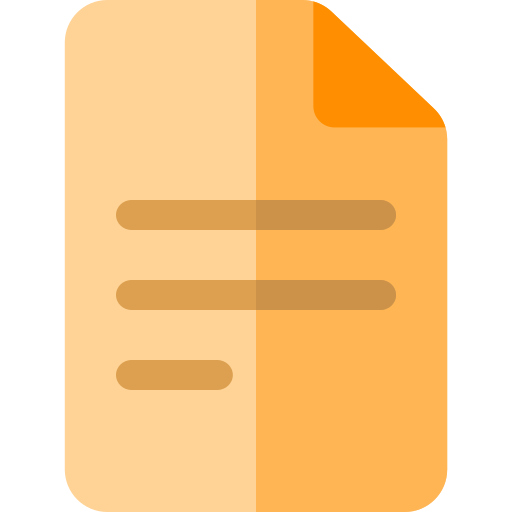
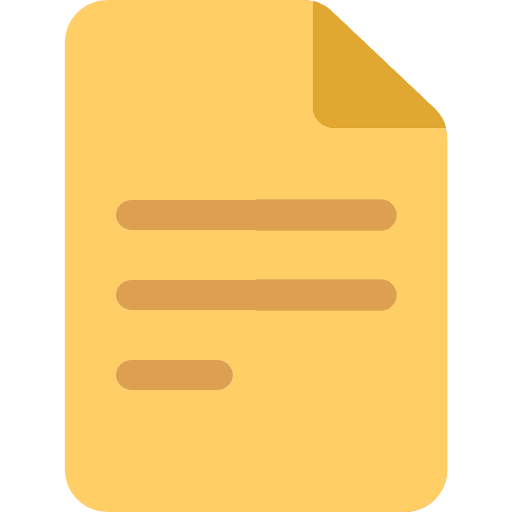
Fixed reflection cache

diff --git a/Engine/ReflectionGenerator/ReflectionCache.cpp b/Engine/ReflectionGenerator/ReflectionCache.cpp
@@ -56,6 +56,12 @@ void ReflectionCache::CacheFile(const std::string& inFile, const std::list<Refle
     myCache[inFile] = { lastWriteTime, inClasses };
 }
 
+void ReflectionCache::UpdateWriteTimeForFile(const std::string& inFile)
+{
+    std::filesystem::file_time_type lastWriteTime = std::filesystem::last_write_time(inFile);
+    myCache[inFile].myLastWriteTime = lastWriteTime;
+}
+
 bool ReflectionCache::IsCacheValidForFile(const std::string& inFile) const
 {
     const std::string normalizedFilePath = PathUtils::NormalizePath(inFile);
@@ -87,6 +93,8 @@ void ReflectionCache::UpdateCacheFromUnityFile(const UnityFileBuilder& inUnityFi
         
         if (myCache.find(normalizedPath) == myCache.end())
             CacheFile(normalizedPath, {});
+        else
+            UpdateWriteTimeForFile(normalizedPath);
     }
 }
 

diff --git a/Engine/ReflectionGenerator/ReflectionCache.h b/Engine/ReflectionGenerator/ReflectionCache.h
@@ -64,6 +64,8 @@ public:
     // This will add a file to the cache potentially overwriting existing cached data.
     void CacheFile(const std::string& inFile, const std::list<ReflectedClass>& inClasses);
 
+    void UpdateWriteTimeForFile(const std::string& inFile);
+
     bool IsCacheValidForFile(const std::string& inFile) const;
     const std::list<ReflectedClass>& GetCachedClassesForFile(const std::string& inFile) const;
 